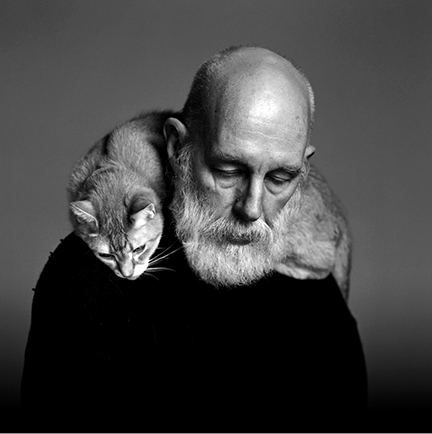
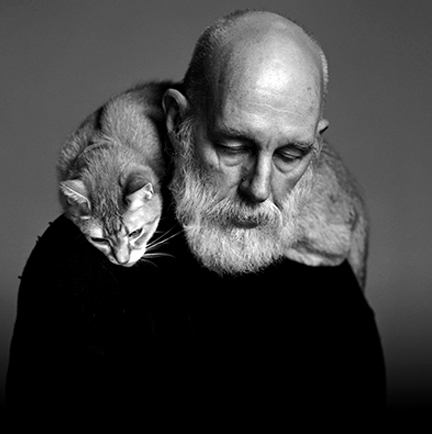
Finished CSS updates on Museum section. Updated bottom image.

Changed region(s): [[0.0, 0.03, 0.9028, 0.8687], [0.0, 0.9885, 1.0, 1.0]]

diff --git a/css/styles.css b/css/styles.css
@@ -33,6 +33,7 @@ header {
   right: 0;
   padding: 10px 0 10px 10px;
   filter: drop-shadow(0px 0px 2px black);
+  z-index: 10;
 }
 
 header nav ul li {
@@ -40,7 +41,7 @@ header nav ul li {
 }
 
 header nav a {
-  color: #516939;
+  color: #5e7942;
   text-decoration: none;
   font-family: 'IM Fell English';
   font-size: 15px;
@@ -107,14 +108,14 @@ hr {
 }
 
 .gorey-bio {
-  margin: -28px -30px;
+  margin: -25px -30px;
 }
 
 .bio-image {
   width: 230px;
   display: inline-block;
   margin-top: 22px;
-  padding: 28px 40px;
+  padding: 28px 40px 32px;
 }
 
 .bio-image img {
@@ -136,6 +137,10 @@ span {
     padding: 31px 0 56px;
 }
 
+.bio-image.up {
+    margin: -3px 0px 0px;
+}
+
 /*======================================
 
         Middle Image Break
@@ -143,7 +148,7 @@ span {
 =======================================*/
 
 .section-break {
-  background: url('../images/test6.jpg');
+  background: url('../images/gorey-middle-image.jpg');
   background-attachment: fixed;
   background-size: cover;
   background-position: bottom;
@@ -156,7 +161,13 @@ span {
 
 =======================================*/
 .museum {
-  padding: 100px 0px;
+  padding: 26px 0px;
+}
+
+.museum h2 {
+  text-align: center;
+  font-size: 44px;
+  letter-spacing: 1px;
 }
 
 .city {
@@ -164,7 +175,7 @@ span {
   width: 250px;
   display: inline-block;
   margin-top: 20px;
-  padding: 35px 20px;
+  padding: 35px 21px;
 }
 
 .city img {
@@ -179,6 +190,15 @@ span {
   border-radius: 3px;
 }
 
+.city a:hover {
+  background: #5e7942;
+}
+
+.city h3 {
+  text-align: center;
+  margin-top: 5px;
+}
+
 /*======================================
 
         Bottom Image Break
@@ -186,7 +206,7 @@ span {
 =======================================*/
 
 .section-break-bottom {
-  background: url('../images/dracula-horiz.jpg');
+  background: url('../images/gorey-bottom-image.jpg');
   background-attachment: fixed;
   background-size: cover;
   background-position: bottom;
@@ -239,13 +259,13 @@ span {
 =======================================*/
 
 footer {
-  background: #333;
+  background: #000;
   text-align: center;
 }
 
 footer img {
   width: 40px;
   padding: 15px 30px;
-  opacity: .2;
+  opacity: .4;
   margin: 0px -10px;
 }

diff --git a/index.html b/index.html
@@ -67,17 +67,17 @@
               <h3 class="subtext">Edward Gorey <span>|</span> NYC 1983</h3>
             </div>
 
-            <div class="bio-image">
+            <div class="bio-image up">
               <img src="images/bio-image-4.jpg" alt="Devils & Demons 1987" title="Devils & Demons 1987" />
               <h3 class="subtext">Devils + Demons <span>|</span> 1987</h3>
             </div>
 
-            <div class="bio-image">
+            <div class="bio-image up">
               <img src="images/bio-image-5.jpg" alt="Set of Dracula" title="Set of Dracula" />
-              <h3 class="subtext">Set of Dracula <span>|</span> 9.1977</h3>
+              <h3 class="subtext">Edward Gorey <span>|</span> 3.28.1980</h3>
             </div>
 
-            <div class="bio-image">
+            <div class="bio-image up">
               <img src="images/bio-image-6.jpg" alt="Christmas Tree June 1969" title="Christmas Tree June 1969" />
               <h3 class="subtext">Christmas Tree June <span>|</span> 1969</h3>
             </div>
